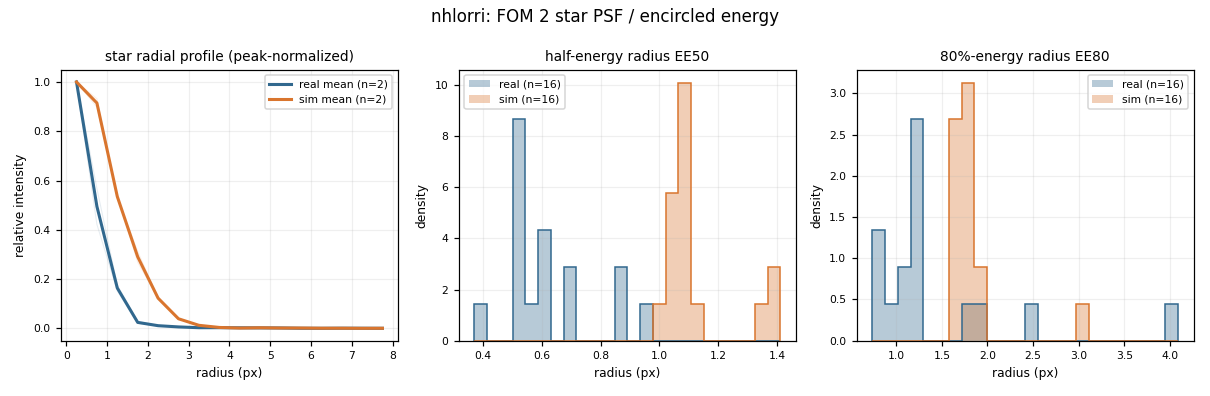
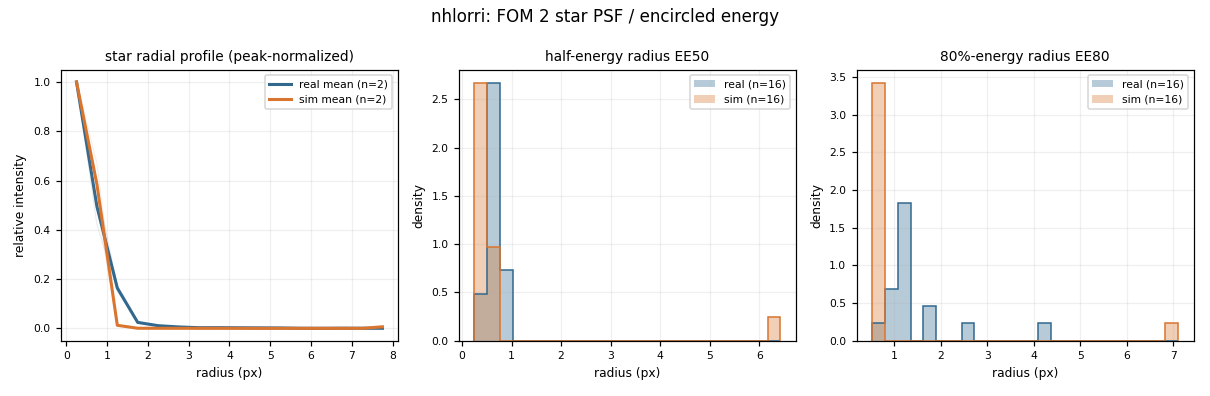
docs(sim): re-run the realism match through the readout modes
The realism match is re-run with the cohort's binned frames rendered
through their modes, and the summary, the affected figures, and the
report's numbers follow. The report's per-readout-mode known gap is
removed.

LORRI's two 4x4 star frames now test the native kernel through the
rescaling: the core lands near the cohort (EE50 0.50 sim vs 0.59 binned px
real) and the wing does not (EE80 0.66 vs 1.23), which the report and the
catalog's provenance record (#848). The two summed NAC frames move the NAC
near-floor statistic from W1/IQR 1.84 to 1.97.

matched_scene now requires the real frame's size: its 512 px default would
read as a 2x2-summed NAC frame and isn't a full frame of the other cameras.

Claude-Session: https://claude.ai/code/session_01E5aE1XPs7AyKdqEFhiSsyU

diff --git a/tests/integration/test_sim_realism.py b/tests/integration/test_sim_realism.py
@@ -21,6 +21,7 @@ from pathlib import Path
 import numpy as np
 import pytest
 
+from spindoctor.sim.forward.artifacts_catalog import NATIVE_FRAME_SIZE_PX
 from spindoctor.sim.scene import validate_sim_params
 from tests.integration.sim_realism import (
     INSTRUMENT_FOR,
@@ -53,32 +54,49 @@ _ALL_CLASSES = (
 )
 
 
+_NAC_FULL = (1024, 1024)
+
+
+def _full_frame(instrument: str) -> tuple[int, int]:
+    """A full unbinned frame's shape for ``instrument`` (Voyager's GEOMED for the vidicon)."""
+    size = NATIVE_FRAME_SIZE_PX.get(instrument, 1000)
+    return (size, size)
+
+
 @pytest.mark.parametrize('instrument', sorted(set(INSTRUMENT_FOR.values())))
 def test_matched_scenes_validate_per_instrument(instrument: str) -> None:
     """Every scene class builds a schema-valid scene for every instrument."""
     for scene_class in _ALL_CLASSES:
-        scene = matched_scene(f'TEST_{scene_class}', scene_class, instrument, 0.68)
+        scene = matched_scene(
+            f'TEST_{scene_class}', scene_class, instrument, 0.68, size_vu=_full_frame(instrument)
+        )
         validate_sim_params(scene)
 
 
 def test_matched_scene_is_deterministic() -> None:
     """The same image_id yields byte-identical scene dicts."""
-    a = matched_scene('N123', 'star_dominated', 'coiss_calib_nac', 1.2)
-    b = matched_scene('N123', 'star_dominated', 'coiss_calib_nac', 1.2)
+    a = matched_scene('N123', 'star_dominated', 'coiss_calib_nac', 1.2, size_vu=_NAC_FULL)
+    b = matched_scene('N123', 'star_dominated', 'coiss_calib_nac', 1.2, size_vu=_NAC_FULL)
     assert a == b
 
 
 def test_matched_scene_seed_varies_with_image_id() -> None:
     """Different frames draw different seeds (independent realizations)."""
-    a = matched_scene('N123', 'star_dominated', 'coiss_calib_nac', 1.2)
-    b = matched_scene('N456', 'star_dominated', 'coiss_calib_nac', 1.2)
+    a = matched_scene('N123', 'star_dominated', 'coiss_calib_nac', 1.2, size_vu=_NAC_FULL)
+    b = matched_scene('N456', 'star_dominated', 'coiss_calib_nac', 1.2, size_vu=_NAC_FULL)
     assert a['random_seed'] != b['random_seed']
 
 
 def test_matched_limb_scene_tracks_diameter_and_phase() -> None:
     """The matched body mirrors the real body's scale and phase."""
     scene = matched_scene(
-        'N1', 'body_full_fov', 'coiss_calib_nac', 0.18, diameter_px=155.0, phase_angle_deg=17.7
+        'N1',
+        'body_full_fov',
+        'coiss_calib_nac',
+        0.18,
+        size_vu=_NAC_FULL,
+        diameter_px=155.0,
+        phase_angle_deg=17.7,
     )
     body = scene['bodies'][0]
     assert body['axis1'] == pytest.approx(155.0)
@@ -93,7 +111,13 @@ def test_matched_ring_body_tracks_diameter_and_phase() -> None:
     FOM 3 stratum than the matched real body's.
     """
     scene = matched_scene(
-        'N2', 'ring_plus_body', 'coiss_calib_nac', 0.68, diameter_px=55.0, phase_angle_deg=126.3
+        'N2',
+        'ring_plus_body',
+        'coiss_calib_nac',
+        0.68,
+        size_vu=_NAC_FULL,
+        diameter_px=55.0,
+        phase_angle_deg=126.3,
     )
     body = scene['bodies'][0]
     assert body['axis1'] == pytest.approx(55.0)

diff --git a/tests/integration/sim_realism_scenes.py b/tests/integration/sim_realism_scenes.py
@@ -33,8 +33,8 @@ __all__ = [
     'star_field_scene',
 ]
 
-# Fallback matched-frame size when the caller supplies no real frame shape:
-# large enough for 32-px sky patches and the PSD's 64-px tiles.
+# The frame size the ring scene's geometry is laid out for; a matched ring
+# scene scales it to the real frame's size.
 _DEFAULT_SCENE_SIZE = 512
 
 # Star classes place this many stars; magnitudes ladder from bright to the
@@ -315,7 +315,7 @@ def matched_scene(
     instrument: str,
     exposure_sec: float,
     *,
-    size_vu: tuple[int, int] = (_DEFAULT_SCENE_SIZE, _DEFAULT_SCENE_SIZE),
+    size_vu: tuple[int, int],
     diameter_px: float = 150.0,
     phase_angle_deg: float = 45.0,
 ) -> dict[str, Any]:

diff --git a/src/spindoctor/sim/forward/artifacts_catalog.py b/src/spindoctor/sim/forward/artifacts_catalog.py
@@ -86,7 +86,9 @@ __all__ = [
 #   1x1 mode).  The cohort's two star frames are 4x4-binned; a binned frame
 #   renders with this kernel rescaled to binned pixels
 #   (:func:`binned_psf_kernel`), so those frames test the 1x1 kernel only
-#   through the 4x4 rescaling.
+#   through the 4x4 rescaling.  Rendered that way the core matches the
+#   cohort (EE50 0.50 vs 0.59 binned px) and the wing is too weak (EE80 0.66
+#   vs 1.23; #848).
 #
 # Every kernel is the native (unbinned) one, in native detector pixels.
 PSF_KERNELS: dict[str, dict[str, float]] = {

diff --git a/docs/simulator_report/simulator_report.rst b/docs/simulator_report/simulator_report.rst
@@ -334,7 +334,7 @@ real IQR):
    * - sky noise sigma (FOM 1)
      - 2.1e-4 I/F
      - 10.0
-     - 5.0
+     - 4.9
      - 5263
      - 2214
    * - sky level above floor (FOM 1)
@@ -348,7 +348,7 @@ real IQR):
      - 13.8
      - 5.0
      - 15700
-     - 6451
+     - 6448
    * - star EE50 (FOM 2)
      - 0.91 px
      - 1.09
@@ -376,7 +376,7 @@ real IQR):
    * - near-floor fraction, 0.05-0.5 s (FOM 5)
      - 0.107
      - 0.76
-     - 1.84 [#floor]_
+     - 1.97 [#floor]_
      - 27
      - 27
    * - p99 - p50 stretch, 0.05-0.5 s (FOM 5)
@@ -481,7 +481,7 @@ The FOM 3 strata behind the pooled number (2026-11-01; p = phase bin
 The headline reading: the star PSF matches the cohort's medians through
 the same estimator on both sides (EE50 0.87 sim vs 0.91 real; EE80 1.70
 vs 1.79), though the 25 real cutouts spread wider than the simulated
-ones (EE50 W1/IQR 1.01); the stationary artifact incidence matches (1.8e-5
+ones (EE50 W1/IQR 1.01); the stationary artifact incidence matches (1.9e-5
 of pixels sim vs 1.6e-5 real, hot pixels recurring at fixed detector
 positions on both sides), while the transient (cosmic-ray) share stays
 unmodeled on every chain -- each catalog entry retains an explicit zero
@@ -600,10 +600,16 @@ high-gain interim value (see the catalog); the sky-noise floor itself is
 quantization-limited on the sim side (known gaps).
 
 **New Horizons LORRI** (2 frames, limited).  Both frames are 4x4-binned
-star fields; their binned-pixel EE50 (median 0.59 px) cannot constrain the
-1x1-mode kernel the catalog carries, so the LORRI kernel is retained and
-LORRI sim accuracy for the PSF is bounded by unverified per-mode
-fidelity.  The sky statistics are pedestal-invariant by construction (the
+star fields, and the matched frames render through the 4x4 readout mode,
+where the catalog's native kernel is rescaled to binned pixels.  The core
+lands near the cohort (EE50 0.50 sim vs 0.59 px real), but the wing does
+not (EE80 0.66 vs 1.23 px; normalized W1 3.2 and 2.4 over 16 cutouts a
+side): the real profile carries far more energy between the two radii
+than the kernel's interim 1.2% wing allows, the signature the NAC kernel
+showed before its wing was tuned, and the frames' bright tail is short by
+the same mechanism (p99 - p50 stretch 3.5 vs 26.8 DN).  The 4x4 frames
+test the native kernel only through the rescaling, and say its wing is too
+weak (#848); they say nothing separate about a 1x1 frame.  The sky statistics are pedestal-invariant by construction (the
 sci products are bias-subtracted; the sim raw chain is not).
 
 Technique diagnostics (read-only)
@@ -665,18 +671,14 @@ cannot close, it is recorded here rather than force-fitted:
    uncertainty at full size: its simulated sky sigma undershoots the
    real cohort by roughly 8x one-sidedly (2.4e-5 vs 1.9e-4 I/F; see the
    WAC subsection).
-2. **No per-readout-mode PSF.**  The catalog carries one kernel per
-   instrument; the LORRI cohort's 4x4-binned frames (and any summed
-   Cassini modes that enter the library later) see a different effective
-   kernel that the catalog cannot express.
-3. **Matched-frame content limits.**  Simulated ring edges are sharp
+2. **Matched-frame content limits.**  Simulated ring edges are sharp
    optical-depth steps and simulated matched bodies are relief-free
    ellipsoids, so residual FOM 3/4 width differences fold in real edge
    structure (ring radial profiles, limb topography) beyond the PSF that
    FOM 2 pins independently.  The Galileo negative frames carry an
    extended background glow (scattered light) that matched sky frames do
    not model, which dominates that cohort's FOM 5 comparison.
-4. **Measured transients exceed what the cosmic-ray stage can express.**
+3. **Measured transients exceed what the cosmic-ray stage can express.**
    Every cohort measures a nonzero transient spike fraction (NAC 2.75e-4,
    WAC 4.89e-4, Galileo 1.17e-4, LORRI 3.36e-4 per frame), yet no
    catalog entry adopts a ``cosmic_ray_events_per_pixel_per_sec``: the Cassini
